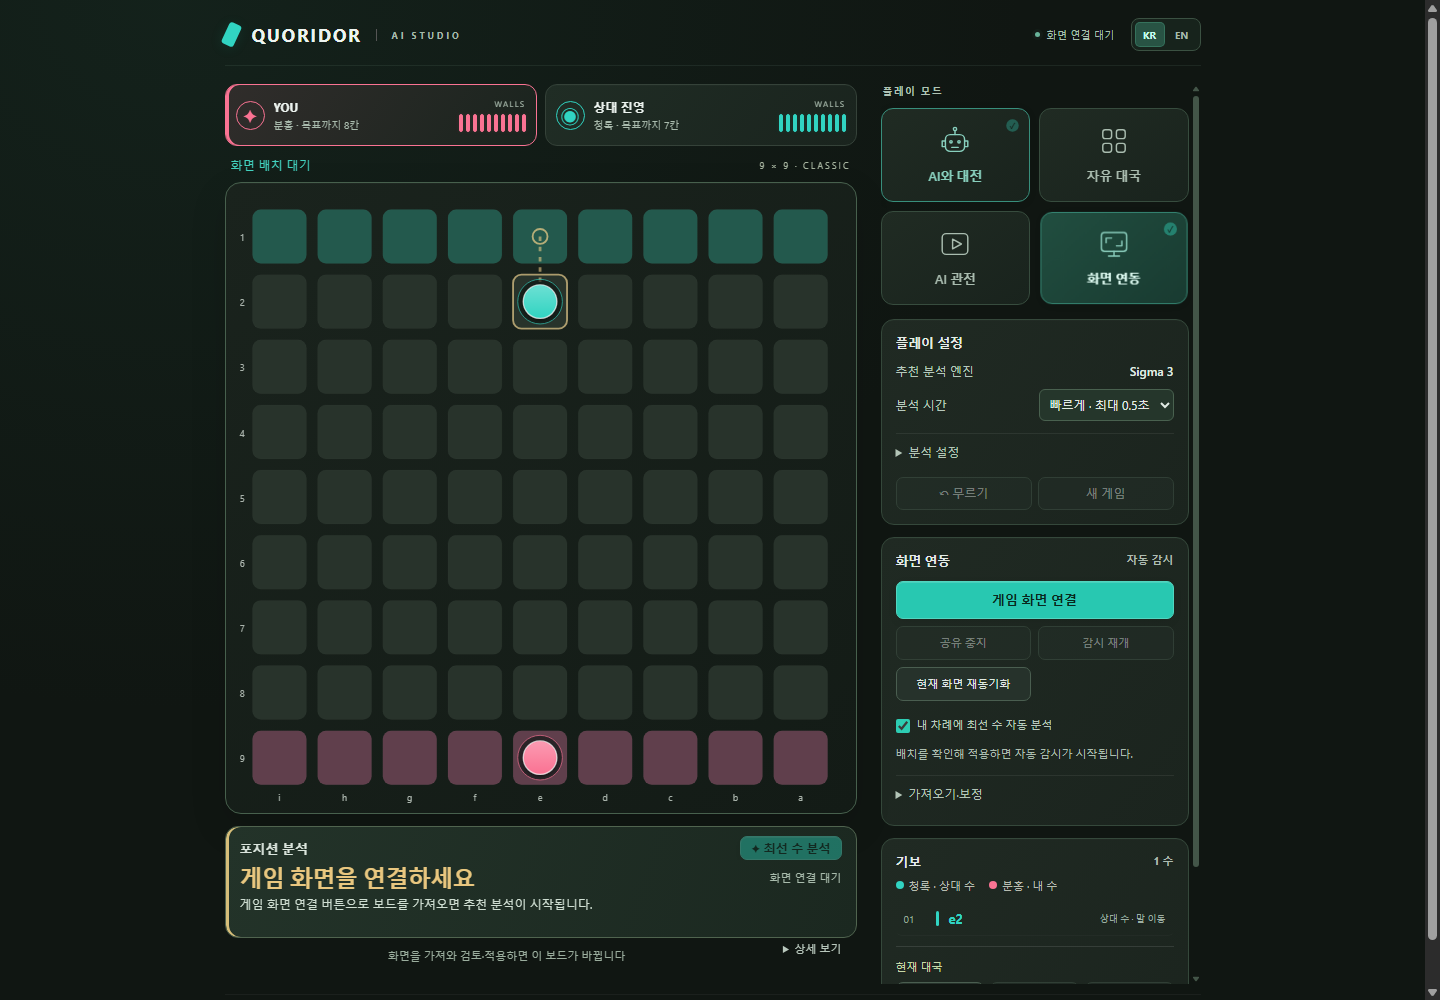
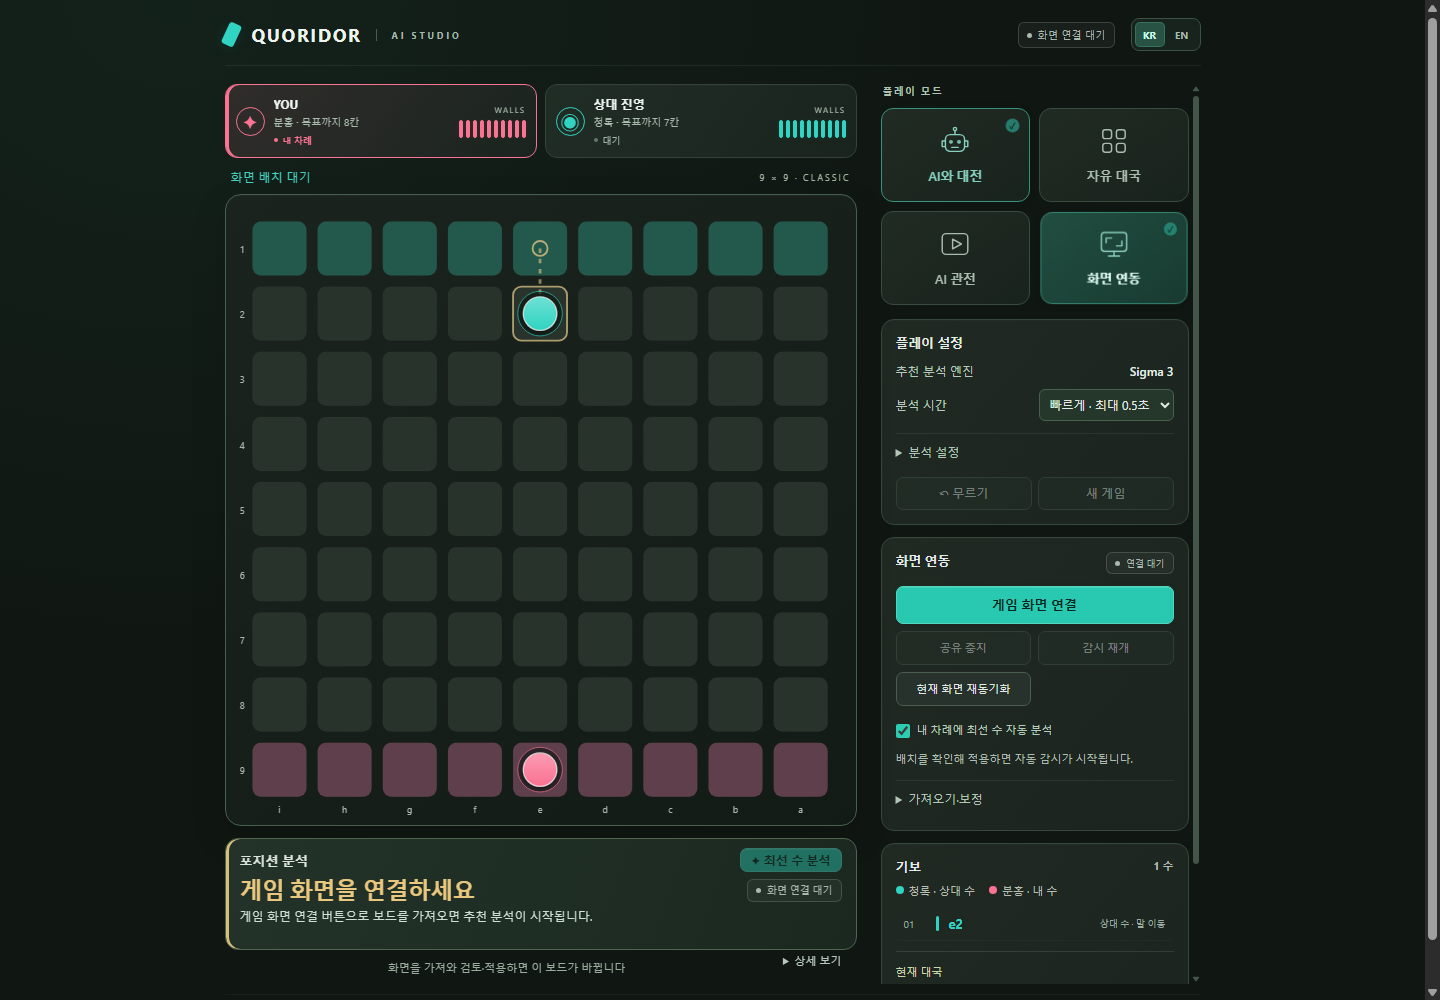
디자인 개선: 차례 안내와 추천 종류 아이콘 및 상태 배지 통일
실시간·기보 차례와 생각 중 상태를 구분하고 이동·벽 추천 아이콘을 추가했습니다. 연결·분석 대기와 완료·오류 배지를 통일하며 두 언어와 모바일 배치를 검증했습니다.

diff --git a/src/ui/app.js b/src/ui/app.js
@@ -29,6 +29,7 @@ const entry=new URLSearchParams(location.search);
 let storedSession=null;try{storedSession=localStorage.getItem('quoridor-session');}catch{}
 let state=initial(),past=[],records=[],serial=0,busy=false,hint=null,decisionLog=[];
 let autoAdviceActive=false;
+let analysisFailed=false;
 let reviewPly=null,reviewHint=null;
 let reviewPool=null,reviewAnalysis=null;
 let reviewTimer=null;
@@ -44,8 +45,10 @@ function clearRecommendationReason(){
  $('#readable-reason-detail')?.remove();
 }
 function showAnalysisError(error){
+ analysisFailed=true;$('#wait-label').dataset.tone='error';$('#wait-advice').dataset.phase='error';$('#wait-label').textContent='분석 실패';$('#wait-label').title='분석 실패';
  clearRecommendationReason();hint=null;if(reviewPly!==null)reviewHint=null;
  const message=analysisError(error,{browser:import.meta.env?.VITE_BROWSER_AI==='1'});$('#analysis').textContent=message;$('#analysis-reason').textContent=message;$('#analysis-choice').textContent='분석 실패';
+ $('#wait-reason').textContent=message;$('#wait-timing').textContent='';$('#position-verdict').textContent='';$('#advice-change').hidden=true;$('#variable-controls').hidden=true;
  $('#engine-meta').textContent=`최근 오류: ${String(error?.message??error)}`;drawBoard();
 }
 function showRecommendationReason(source,action){
@@ -149,6 +152,8 @@ function drawBoard(){
   state.walls.forEach((w,i)=>{svg+=wallSvg(w,last?.type==='wall'&&i===state.walls.length-1?'last-wall':'');});
   state.p.forEach((position,t)=>{const p=viewPosition(position);svg+=`<circle class="pawn-ring" cx="${51+p.x*70}" cy="${51+p.y*70}" r="24" stroke="${colors[t]}"/><circle class="pawn" cx="${51+p.x*70}" cy="${51+p.y*70}" r="18" fill="${colors[t]}"/><circle class="pawn-sheen" cx="${51+p.x*70}" cy="${51+p.y*70}" r="17" fill="url(#pawn-light)"/>`;});
   const advice=reviewPly===null?hint:reviewHint;
+  const kind=$('#recommendation-kind');kind.hidden=!advice;
+  if(advice){kind.dataset.action=advice.type;kind.innerHTML=advice.type==='wall'?'<svg viewBox="0 0 20 20" aria-hidden="true"><rect x="2" y="7" width="16" height="6" rx="2"/></svg><span>벽 추천</span>':'<svg viewBox="0 0 20 20" aria-hidden="true"><circle cx="10" cy="5" r="3"/><path d="M8 9h4l1 5H7zM5 17h10"/></svg><span>이동 추천</span>';}
   if(advice){if(advice.type==='wall')svg+=wallSvg({...advice,owner:state.turn},'recommend');else{const p=viewPosition(advice);svg+=`<circle class="recommend" cx="${51+p.x*70}" cy="${51+p.y*70}" r="23" fill="none" stroke="#f4d18a" stroke-width="3"/>`;}}
   $('#board').innerHTML=svg+'<g id="ghost"></g></svg>';
 }
@@ -156,7 +161,10 @@ function render(){
   syncModePicker();
   variableStatus();
   $('#engine-current').textContent=engineName($('#play-engine').value);
-  $('#app-status').textContent=$('#mode').value==='screen'?(screenCapture?.active?'화면 연결됨':'화면 연결 대기'):browserAI?'브라우저 AI · 내 기기에서 계산':'로컬 분석';
+  const connected=$('#mode').value==='screen'&&$('#screen-disconnect')&&!$('#screen-disconnect').disabled;
+  $('#app-status').textContent=$('#mode').value==='screen'?(screenCapture?.active?'화면 연결됨':connected?'화면 공유 일시정지':'화면 연결 대기'):browserAI?'브라우저 AI · 내 기기에서 계산':'로컬 분석';
+  $('#app-status').dataset.tone=$('#mode').value==='screen'?(screenCapture?.active?(screenReady?'ready':'working'):connected?'working':'idle'):'ready';
+  const screenBadge=$('#screen-panel .panel-title span');if(screenBadge){screenBadge.classList.add('status-badge');screenBadge.dataset.tone=screenCapture?.active?(screenReady?'ready':'working'):connected?'working':'idle';screenBadge.textContent=screenCapture?.active?(screenReady?'감시 중':'확인 중'):connected?'일시정지':'연결 대기';}
   const screen=$('#mode').value==='screen';screenCapture?.setVisible(screen);
   $('#opponent-settings').hidden=$('#mode').value!=='ai'||reviewPly!==null;
   $('#ai-auto-hint-setting').hidden=$('#mode').value!=='ai';
@@ -178,7 +186,9 @@ function render(){
   $('#players').innerHTML=[Number($('#side').value),1-Number($('#side').value)].map(t=>{
     const title=watch?engineName(watchSettings(t).engine):$('#mode').value==='sandbox'?names[t]:screen?(t===Number($('#side').value)?'YOU':'상대 진영'):t===Number($('#side').value)?'YOU':`상대 AI · ${engineName($('#opponent-engine').value)}`;
     const stock=shownState.left[t],wallLabel=`남은 벽 ${stock}개 / 10개`;
-    return `<div class="player ${shownState.turn===t&&!outcome?'active':''}" style="--accent:${colors[t]}"><div class="avatar">${t===0?'◉':'✦'}</div><div><b>${title}</b><small>${names[t]} · 목표까지 ${distance(shownState,t)}칸</small></div><div class="wall-stock" role="img" aria-label="${wallLabel}" title="${wallLabel}"><small>WALLS</small><div class="wall-bars" aria-hidden="true">${Array.from({length:10},(_,i)=>`<i class="wall-bar${i<stock?' available':''}"></i>`).join('')}</div></div></div>`;
+    const finished=shownState.winner!==null||reviewPly===null&&!!outcome,active=!finished&&shownState.turn===t;
+    const turnLabel=finished?(shownState.winner===t?'승리':'대국 종료'):!active?'대기':reviewPly!==null?(busy?'기보 분석 중':'기보 차례'):screen&&screenSuppressed()?'차례 확인 중':busy?(!watch&&(screen||$('#mode').value==='sandbox'||t===Number($('#side').value))?'추천 분석 중':'생각 중'):watch||$('#mode').value==='sandbox'?'둘 차례':t===Number($('#side').value)?'내 차례':'상대 차례';
+    return `<div class="player ${active?'active':''}" style="--accent:${colors[t]}"><div class="avatar">${t===0?'◉':'✦'}</div><div><b>${title}</b><small>${names[t]} · 목표까지 ${distance(shownState,t)}칸</small><span class="player-turn" data-active="${active}">${turnLabel}</span></div><div class="wall-stock" role="img" aria-label="${wallLabel}" title="${wallLabel}"><small>WALLS</small><div class="wall-bars" aria-hidden="true">${Array.from({length:10},(_,i)=>`<i class="wall-bar${i<stock?' available':''}"></i>`).join('')}</div></div></div>`;
   }).join('');
   const userSide=Number($('#side').value),startSide=baseState?.turn??0,showOwners=!watching()&&$('#mode').value!=='sandbox';
   $('#history-legend').innerHTML=[0,1].map(side=>'<span class="history-legend-item side-'+side+'"><i aria-hidden="true"></i>'+(['청록','분홍'][side])+(showOwners?(side===userSide?' · 내 수':' · 상대 수'):'')+'</span>').join('');
@@ -203,7 +213,7 @@ function render(){
   }
   $('#hint').textContent=reviewPly===null?'✦ 최선 수 분석':'↻ 다시 분석';
   const terminal=reviewPly===null&&outcome;
-  $('#wait-advice').dataset.phase=terminal?'terminal':busy?'thinking':reviewPly!==null?'review':hint?'ready':'idle';
+  $('#wait-advice').dataset.phase=terminal?'terminal':analysisFailed?'error':busy?'thinking':reviewPly!==null?'review':hint?'ready':'idle';
   if(terminal){
     $('#wait-advice').dataset.level='done';$('#analysis-choice').textContent=outcome.type==='win'?`${names[outcome.winner]} 승리 · ${records.length}수`:'관전 종료 · 무승부';
     $('#wait-label').textContent='대국 종료';$('#analysis-reason').textContent='기보에서 수를 선택하면 그 시점의 추천과 이유를 확인할 수 있습니다.';
@@ -249,6 +259,7 @@ function writeAnalysis(r,label='추천',source=state){
   }
 }
 function applyMove(action){
+  analysisFailed=false;
   if(!legal(state,action))throw Error('불가능한 수입니다.');
   const trace=analysisTrace();observedAction(decisionLog,state,action,records.length+1,trace?.position===boardKey(state)&&trace.turn===state.turn?trace:null);
   lastAnalysisTrace=null;
@@ -293,6 +304,8 @@ function think(auto=false,reason='manual-analysis'){
   }).catch(error=>{if(id!==serial||error.name==='AbortError')return;stop();render();showAnalysisError(error);});
 }
 function variableStatus(){
+ $('#wait-label').dataset.tone=analysisFailed||reviewAnalysis?.phase==='error'?'error':busy||variableAnalysis.active?'working':hint||reviewHint?'ready':'idle';
+ if(analysisFailed&&reviewPly===null){$('#wait-label').textContent='분석 실패';return;}
  if(reviewPly!==null){
   const phase=reviewAnalysis?.phase??'idle';
   $('#wait-advice').dataset.level=phase==='thinking'?'wait':'done';
@@ -309,7 +322,7 @@ function variableStatus(){
  $('#wait-advice').hidden=false;
  if(!visible||!v.active&&!v.displayed){
   $('#wait-advice').dataset.level=suppressed||busy?'wait':'done';
-  const label=state.winner!==null?'대국 종료':suppressed?'화면 재확인 중':watching()?(watcher.thinking?'AI 대국 계산 중':watcher.running?'AI 대국 진행 중':'AI 대국 대기'):busy?'분석 중':$('#mode').value==='screen'&&!baseState?'화면 연결 대기':'분석 대기';
+  const label=state.winner!==null?'대국 종료':suppressed?'화면 재확인 중':watching()?(watcher.thinking?'AI 대국 계산 중':watcher.running?'AI 대국 진행 중':'AI 대국 대기'):busy?'분석 중':hint?'분석 완료':$('#mode').value==='screen'&&!baseState?'화면 연결 대기':'분석 대기';
   if($('#wait-label').textContent!==label)$('#wait-label').textContent=label;
   $('#wait-reason').textContent=suppressed?'배치를 확인한 뒤 추천을 표시합니다.':watching()?'대국 진행과 선택한 수를 아래에서 확인하세요.':!visible?'분석 결과와 예상 진행을 아래에서 확인하세요.':'화면 배치를 확인하거나 최선 수 분석을 시작하세요.';
   $('#wait-timing').textContent='';$('#advice-change').hidden=true;$('#advice-change').textContent='';$('#position-verdict').textContent=state.winner!==null?`판세: ${names[state.winner]} 승리`:'판세: 분석 대기';
@@ -369,7 +382,7 @@ $('#board').onpointermove=e=>{
 };
 $('#board').onpointerleave=()=>{if($('#ghost'))$('#ghost').innerHTML='';};
 $('#board').onclick=e=>{if(reviewPly===null&&human()&&(!busy||autoAdviceActive)&&state.winner===null){const a=pick(e);if(a)commitMove(a);}};
-function clearAnalysis(){clearRecommendationReason();$('#analysis').textContent='현재 차례의 추천 수와 예상 진행을 확인하세요.';$('#analysis-choice').textContent='추천 대기';$('#depth').textContent='';$('.analysis-scroll').scrollTop=0;hint=null;}
+function clearAnalysis(){analysisFailed=false;clearRecommendationReason();$('#analysis').textContent='현재 차례의 추천 수와 예상 진행을 확인하세요.';$('#analysis-choice').textContent='추천 대기';$('#depth').textContent='';$('.analysis-scroll').scrollTop=0;hint=null;}
 function resetGame(){reviewCache.clear();reviewPly=null;reviewHint=null;stop();lastShownAdvice=null;lastAnalysisTrace=null;state=initial();baseState=null;observedBottom=null;screenRebased=false;screenSegments=[];decisionLog=[];past=[];records=[];clearAnalysis();persist();render();schedule();}
 function reviewSelect(n){stop('review-position-changed');clearAnalysis();reviewPly=Math.max(0,Math.min(records.length,n));const snap=reviewPly===records.length?state:past[reviewPly];const key=boardKey(snap);const saved=decisionLog.findLast(e=>e.kind==='recommendation'&&e.position===key&&e.turn===snap.turn&&e.pv?.[0]);reviewHint=saved?.pv[0]??null;$('#review-advice').textContent=saved?'당시 추천: '+notation(reviewHint)+' · '+(saved.engine??'AI'):'선택한 배치를 자동으로 분석합니다.';render();scheduleReview();}
 $('#history').addEventListener('click',e=>{const item=e.target.closest('[data-review-ply]');if(item)reviewSelect(Number(item.dataset.reviewPly));});

diff --git a/src/styles/workspace.css b/src/styles/workspace.css
@@ -125,4 +125,9 @@ aside label.auto-advice-setting{justify-content:flex-start;gap:8px;font-size:11p
 .header-actions{display:flex;align-items:center;gap:16px;min-width:0}.language-switch{display:flex;gap:2px;padding:3px;border:1px solid #3b5142;border-radius:8px;background:#17231c;flex-shrink:0}.language-switch button{border:0;min-width:30px;min-height:25px;padding:4px 6px;border-radius:5px;background:transparent;color:#a7bbac;font-size:10px;font-weight:700;line-height:16px}.language-switch button.is-selected{background:#285344;color:#c7fff1;box-shadow:inset 0 0 0 1px #53b59450}
 .wall-stock{margin-left:auto;flex:0 0 75px;text-align:right}.wall-stock>small{font-size:8px!important;letter-spacing:1.4px;color:#b1c3b6;margin:0 0 5px!important}.wall-bars{display:flex;justify-content:flex-end;gap:3px;height:18px}.wall-bar{display:block;width:4px;height:18px;border-radius:2px;border:1px solid #7b8f7e45;background:#9cb19d08}.wall-bar.available{background:var(--accent);border-color:var(--accent);box-shadow:0 0 5px color-mix(in srgb,var(--accent) 10%,transparent)}#players .player>div:nth-child(2) small{overflow:hidden;text-overflow:ellipsis}
 @media(max-width:480px){.header-actions{gap:8px}.wall-stock{flex-basis:62px}.wall-bars{gap:2px;height:16px}.wall-bar{width:4px;height:16px}.language-switch button{min-width:29px}}
+#players{height:74px}#players .player{height:74px}.player-turn{display:flex;align-items:center;gap:5px;margin-top:5px;color:#a4b7aa;font-size:9px;line-height:12px;white-space:nowrap}.player-turn:before{content:"";width:4px;height:4px;flex:0 0 4px;border-radius:50%;background:#63796a}.player-turn[data-active=true]{color:var(--accent);font-weight:650}.player-turn[data-active=true]:before{background:var(--accent)}
+.status-badge{--badge-color:#a9b9ae;display:inline-block;max-width:100%;padding:0 8px;border:1px solid color-mix(in srgb,var(--badge-color) 24%,transparent);border-radius:6px;background:color-mix(in srgb,var(--badge-color) 6%,transparent);color:var(--badge-color);font-size:10px;font-weight:500;line-height:22px;white-space:nowrap;overflow:hidden;text-overflow:ellipsis;vertical-align:middle}.status-badge:before{content:"";display:inline-block;width:5px;height:5px;margin-right:6px;border-radius:50%;vertical-align:1px;background:var(--badge-color)}.status-badge[data-tone=ready]{--badge-color:#70d6b9}.status-badge[data-tone=working]{--badge-color:#e5c778}.status-badge[data-tone=error]{--badge-color:#f494a9}
+#app-status.status-badge{display:block;color:var(--badge-color);font-size:10px;max-width:285px;line-height:24px}#app-status.status-badge:before{background:var(--badge-color);box-shadow:none;width:5px;height:5px}.analysis-panel #wait-label.status-badge{height:23px;line-height:21px;font-size:10px;color:var(--badge-color);align-self:center;font-weight:500}.analysis-heading>div{display:flex;align-items:center;gap:6px;min-width:0;white-space:nowrap}.recommendation-kind{display:inline-flex;align-items:center;gap:4px;padding:2px 5px;border:1px solid #c8b16c42;border-radius:5px;background:#bca3630a;color:#e9cf8e;font-size:9px;font-weight:500;line-height:14px;white-space:nowrap}.recommendation-kind svg{width:12px;height:12px;fill:none;stroke:currentColor;stroke-width:1.5;stroke-linecap:round;stroke-linejoin:round;flex-shrink:0}#screen-panel .panel-title .status-badge{line-height:20px;font-size:9px;color:var(--badge-color)}
+@media(max-width:720px){#app-status.status-badge{display:none}.analysis-heading #depth{display:none}.analysis-panel #wait-label.status-badge{max-width:125px;font-size:9px}.analysis-panel .analysis-heading #hint{padding:2px 6px;font-size:10px}}
+@media(max-width:480px){#players,#players .player{height:72px}#players .avatar{display:none}.player-turn{font-size:9px;gap:4px}.analysis-heading>div{gap:4px}.recommendation-kind{font-size:8px;padding:2px 4px}}
 

diff --git a/index.html b/index.html
@@ -10,15 +10,15 @@
 </head>
 <body>
 <main>
-  <header><div class="brand"><i></i> QUORIDOR <span>AI STUDIO</span></div><div class="header-actions"><span id="app-status">로컬 분석</span><div id="language-switch" class="language-switch" role="group" aria-label="언어 선택"><button type="button" data-language="ko" aria-label="한국어로 전환" aria-pressed="true">KR</button><button type="button" data-language="en" aria-label="영어로 전환" aria-pressed="false">EN</button></div></div></header>
+  <header><div class="brand"><i></i> QUORIDOR <span>AI STUDIO</span></div><div class="header-actions"><span id="app-status" class="status-badge" data-tone="idle">로컬 분석</span><div id="language-switch" class="language-switch" role="group" aria-label="언어 선택"><button type="button" data-language="ko" aria-label="한국어로 전환" aria-pressed="true">KR</button><button type="button" data-language="en" aria-label="영어로 전환" aria-pressed="false">EN</button></div></div></header>
   <section class="layout">
     <div class="arena">
       <div id="players" aria-label="플레이어와 잔여 벽"></div>
       <div class="board-heading"><span id="status">당신의 차례</span><span>9 × 9 · CLASSIC</span></div>
       <div id="board"></div>
       <section id="wait-advice" class="wait-advice analysis-panel" data-level="done" aria-label="포지션 분석">
-        <div class="analysis-heading"><div>포지션 분석 <span id="depth"></span></div><button id="hint" class="primary">✦ 최선 수 분석</button></div>
-        <strong id="wait-label" role="status" aria-live="polite">분석 대기</strong>
+        <div class="analysis-heading"><div>포지션 분석 <span id="recommendation-kind" class="recommendation-kind" hidden></span><span id="depth"></span></div><button id="hint" class="primary">✦ 최선 수 분석</button></div>
+        <strong id="wait-label" class="status-badge" data-tone="idle" role="status" aria-live="polite">분석 대기</strong>
         <strong id="analysis-choice" aria-live="polite">추천 대기</strong>
         <p id="analysis-reason" aria-live="polite">추천 수가 나오면 확인된 효과를 설명합니다.</p>
         <details class="analysis-details"><summary>상세 보기</summary>

diff --git a/src/i18n/translate.js b/src/i18n/translate.js
@@ -35,7 +35,7 @@ export function translateText(value,language='en',depth=0){
  const raw=String(value??'');if(depth>7||!raw.trim())return raw;
  if(language==='en'&&!/[가-힣]/.test(raw)||language==='ko'&&/[가-힣]/.test(raw))return raw;
  const table=language==='ko'?ko:en,text=raw.trim(),leading=raw.slice(0,raw.indexOf(text)),trailing=raw.slice(raw.indexOf(text)+text.length);
- const done=result=>leading+result+trailing;
+ const done=result=>leading+(language==='en'?result.replace(/(?<![\d.])1 (steps|plies|walls|simulations|nodes)\b/g,(_,unit)=>'1 '+({plies:'ply'}[unit]??unit.slice(0,-1))):result)+trailing;
  if(table.exact.has(text))return done(table.exact.get(text));
  for(const p of table.patterns){const match=text.match(p.regex);if(!match)continue;
   const args={};p.ids.forEach((id,i)=>{args[id]=translateText(match[i+1],language,depth+1);});

diff --git a/tests/unit/translation.test.js b/tests/unit/translation.test.js
@@ -11,6 +11,7 @@ test('English catalog covers all registered static and dynamic messages',()=>{
 });
 test('readable reasons and accessibility counts preserve measured quantities',()=>{
  assert.equal(translateText('상대의 최단 경로를 4칸 늘리는 벽입니다.','en'),"This wall adds 4 steps to the opponent's shortest route.");
+ assert.equal(translateText('상대의 최단 경로를 1칸 늘리는 벽입니다.','en'),"This wall adds 1 step to the opponent's shortest route.");
  assert.equal(translateText('남은 벽 0개 / 10개','en'),'0 of 10 walls remaining');
  assert.equal(translateText('청록 · 목표까지 7칸','en'),'Teal · 7 steps to goal');
  assert.equal(translateText('청록 · 내 수','en'),'Teal · Your move');
